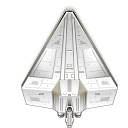
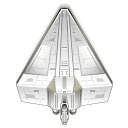
11th commit. 1) My ship is marked with green arc. 2) HP is regenerating constantly. 3) HP line fill color depends on current HP (green/orange/red). 4) Dynamically changing HP line is shown on the Sidebar.

Changed region(s): [[0.125, 0.0312, 0.9375, 1.0]]

diff --git a/StarWars/Content/Scripts/init.js b/StarWars/Content/Scripts/init.js
@@ -94,13 +94,10 @@ var SHIP = (function () {
     my.RangerImages = [];
     my.RangerImagesMax = 9;
 
+    // Ranger ship types
     var selectShip = document.createElement('Div');
     selectShip.id = "SelectShip";
     GAME.Sidebar.appendChild(selectShip);
-
-    var currentShip = document.createElement('Div');
-    currentShip.id = "CurrentShip";
-    GAME.Sidebar.appendChild(currentShip);
 
     for (var i = 0; i < my.RangerImagesMax; i++) {
         my.RangerImages[i] = new Image();
@@ -118,8 +115,22 @@ var SHIP = (function () {
 
         selectShip.appendChild(my.RangerImages[i]);
     }
+
+    // My ship (image, HP)
+    var currentShip = document.createElement('Div');
+    currentShip.id = "CurrentShip";
+    GAME.Sidebar.appendChild(currentShip);
+
     my.MyShipImageFull = new Image();
     currentShip.appendChild(my.MyShipImageFull);
+
+    var currentShipHP = document.createElement('Div');
+    currentShipHP.id = "CurrentShipHP";
+    currentShip.appendChild(currentShipHP);
+
+    var currentShipHPValue = document.createElement('Div');
+    currentShipHPValue.id = "CurrentShipHPValue";
+    currentShipHP.appendChild(currentShipHPValue);
 
     // Dominators
     my.DominatorTypesMax = 4;
@@ -144,6 +155,7 @@ var SHIP = (function () {
     // *** Bombs ***
     my.BombHP = 50;  // Ударная сила бомбы (1 столкновение)
     my.SunHP = 1;    // Ударная сила Солнца (1 tick = GAME.SyncRate = 20ms)
+    my.RegenerateHP = 0.125;    // Регенерация (1 tick = GAME.SyncRate = 20ms)
     my.BombSize = 24, my.BombSpeed = 2.5;
 
     my.RangerBombImages = [];
@@ -435,8 +447,12 @@ function ReloadGame() {
         }
     }
 
-    CheckSunAndShip(SHIP.MyShip);            // Проверяем, не налетели ли на Солнце
+    CheckSunAndShip(SHIP.MyShip);           // Проверяем, не налетели ли на Солнце
+    if (SHIP.MyShip.HP < SHIP.MyShip.MaxHP) {
+        SHIP.MyShip.HP += SHIP.RegenerateHP;    // Регенерировали
+    }
     SHIP.MyShip.Show();
+
 
     for (i = 0; i < SHIP.Ships.length; i++) {
         SHIP.Ships[i].Show();
@@ -602,7 +618,7 @@ window.onresize = function () {
 
     // Recount sun coordinates after window resizing
     var heightTotal = document.documentElement.clientHeight;
-    GAME.Sidebar.style.height = heightTotal;
+    GAME.Sidebar.style.height = heightTotal + "px";
 
     GAME.Canvas.width = document.documentElement.clientWidth - GAME.SidebarWidth;
     GAME.Canvas.height = heightTotal;

diff --git a/StarWars/Content/Scripts/ships.js b/StarWars/Content/Scripts/ships.js
@@ -114,8 +114,33 @@ Ship.prototype.Show = function () {
         GAME.Context.strokeStyle = "#00BB00";
         GAME.Context.fillStyle = "#00BB00";
     }
-    GAME.Context.strokeRect(centerShipX - this.Size / 2, centerShipY + this.Size / 2, this.Size, 5);  // fillRect(x, y, width, height)
-    GAME.Context.fillRect(centerShipX - this.Size / 2, centerShipY + this.Size / 2, lineHP, 5);  // fillRect(x, y, width, height)
+
+    if (this.Name == SHIP.MyShip.Name) {    // Если наш корабль - подсвечиваем его
+        GAME.Context.beginPath();
+        GAME.Context.arc(centerShipX, centerShipY, this.Size * 0.8, -Math.PI / 4, -3 * Math.PI / 4, true);      // arc(x, y, radius, startAngle, endAngle)
+        GAME.Context.arc(centerShipX, centerShipY, this.Size * 0.75, -3 * Math.PI / 4, -Math.PI / 4);
+        GAME.Context.closePath();
+        GAME.Context.fill();
+
+
+        // Обновили полосу HP на панели Sidebar
+        var currentShipHPValue = document.getElementById('CurrentShipHPValue');
+        currentShipHPValue.style.width = (this.HP / this.MaxHP) * 124 + "px";    // 124 = 128 - 2 - 2 (размер рисунка с кораблем минус границы 2px)
+
+        if (this.HP <= (this.MaxHP / 4)) {
+            GAME.Context.fillStyle = "#FF0000";
+            currentShipHPValue.style.backgroundColor = "#FF0000";
+        } else if (this.HP <= (this.MaxHP / 2)) {
+            GAME.Context.fillStyle = "#FFBB00";
+            currentShipHPValue.style.backgroundColor = "#FFBB00";
+        } else {
+            currentShipHPValue.style.backgroundColor = "#00BB00";
+        }
+    }
+
+    GAME.Context.strokeRect(centerShipX - this.Size / 2, centerShipY + this.Size / 2, this.Size, 5);    // fillRect(x, y, width, height)
+    GAME.Context.fillRect(centerShipX - this.Size / 2, centerShipY + this.Size / 2, lineHP, 5);         // fillRect(x, y, width, height)
+
 
     if (this.Angle == 0) {
         GAME.Context.drawImage(this.GetImage(), this.X, this.Y);

diff --git a/StarWars/Content/Site.css b/StarWars/Content/Site.css
@@ -16,9 +16,12 @@ body {
 
 #SelectShip {
     padding: 2px;
+    height: 200px;
 }
+
 #SelectShip > img {
     /*display: inline-block;*/  /*По умолчанию у тега img как раз установлен inline-block*/ 
+    float: left;
     margin: 2px;
     padding-right: 5px;
 }
@@ -40,4 +43,17 @@ body {
 #CurrentShip {
     width: 128px;
     margin: 20px auto 10px;
+}
+
+#CurrentShipHP  {
+    height: 10px;
+    border: 2px solid #007700;
+    border-radius: 10px;
+    margin: 0;
+}
+
+#CurrentShipHPValue {
+    height: 10px;
+    border-radius: 5px;
+    background-color: #00BB00;
 }
